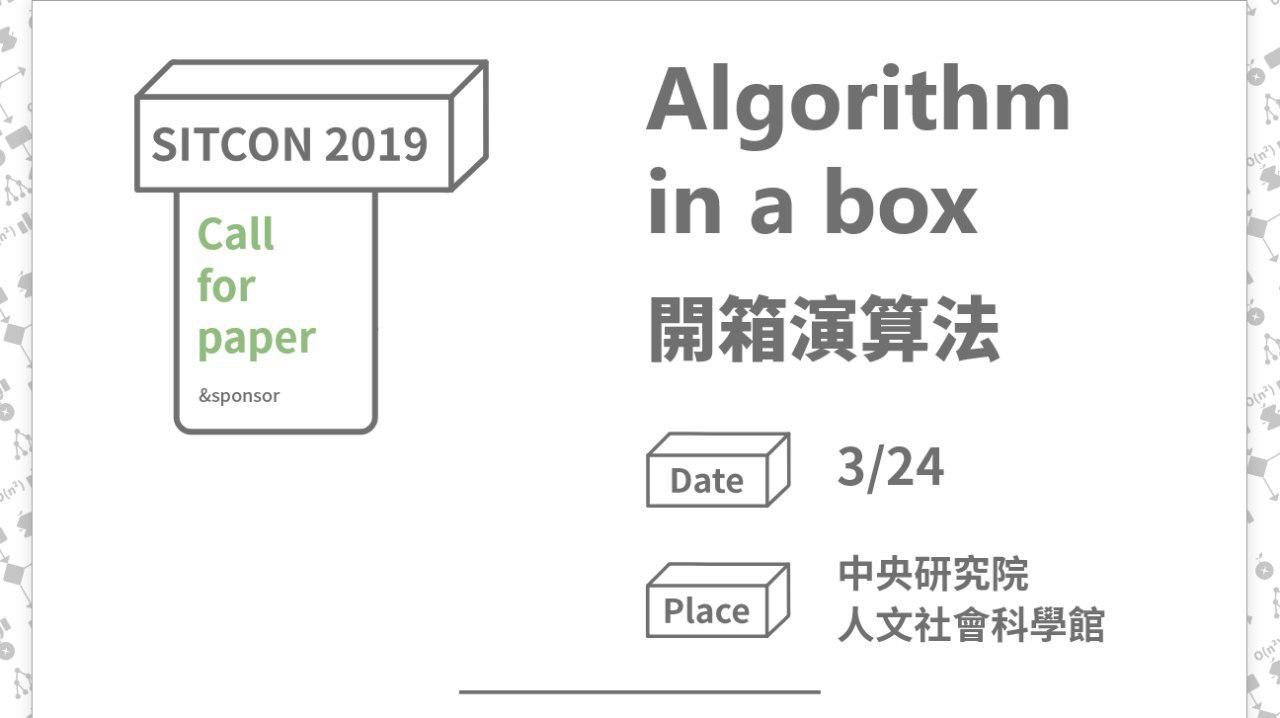
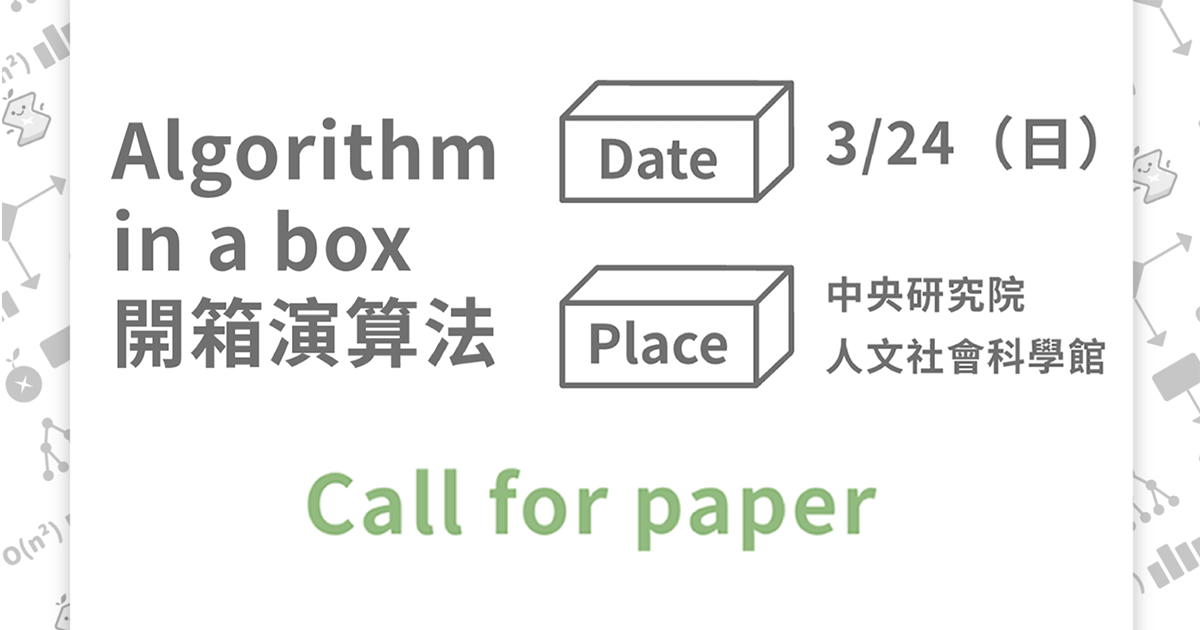
Fix: meta:og image

diff --git a/src/views/CFP.vue b/src/views/CFP.vue
@@ -249,7 +249,7 @@ export default {
 
       title.innerHTML = meta[2].content = '學生計算機年會 2019 徵稿｜SITCON 2019 CFP'
       meta[4].content = 'https://sitcon.org/2019/cfp/'
-      meta[5].content = 'https://sitcon.org/2019/static/metaBanner_cfp.png'
+      meta[5].content = 'https://sitcon.org/2019/static/metaBanner.png'
     },
 
     openWindow (url) {
